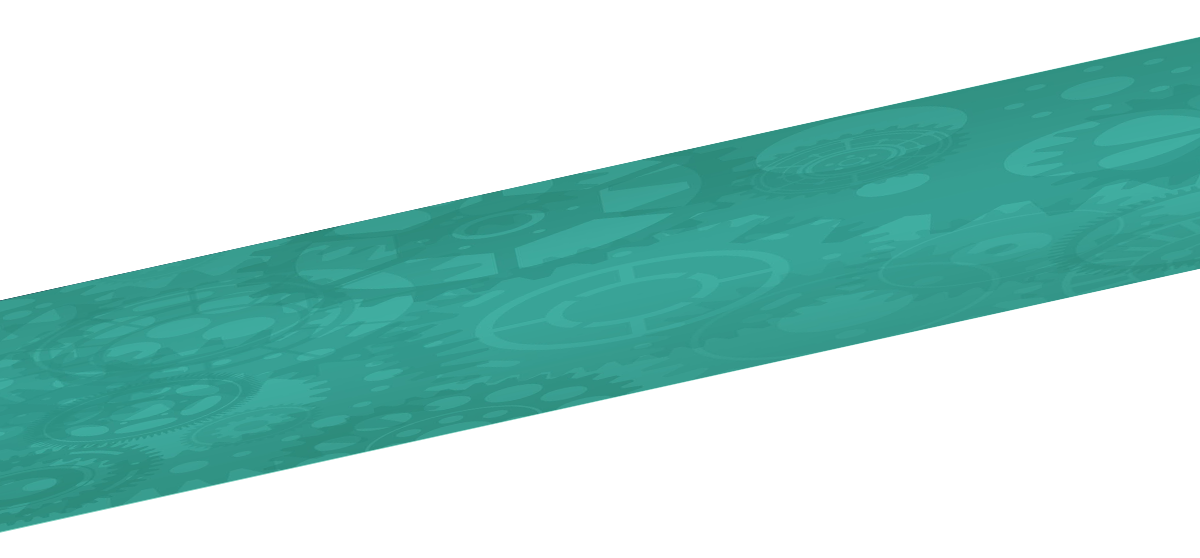
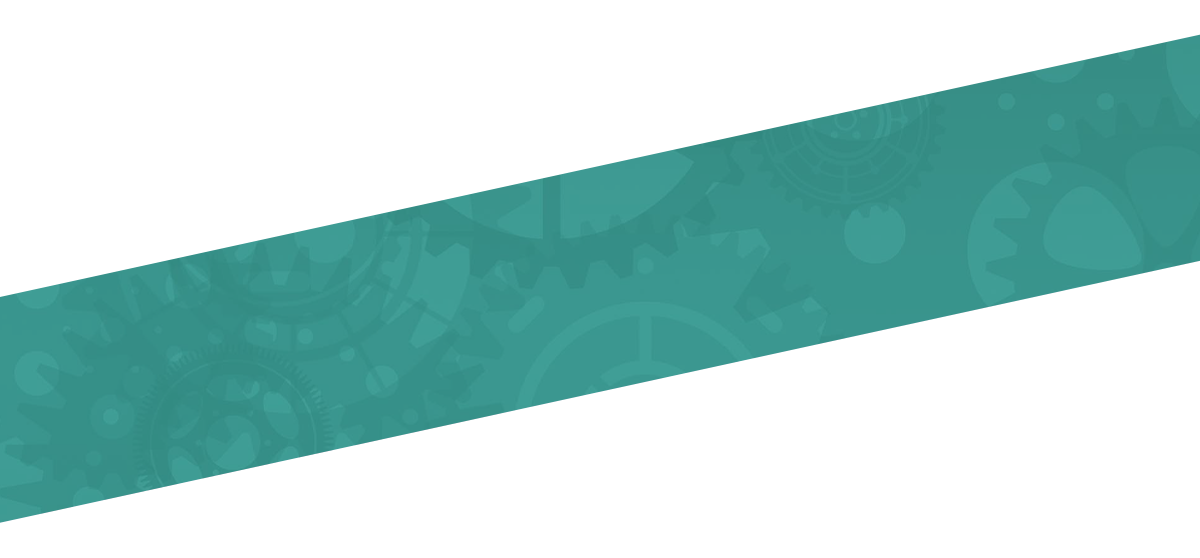
公開後修正

diff --git a/js/script.js b/js/script.js
@@ -1,0 +1,12 @@
+particlesJS("particles-js", {"particles":{"number":{"value":80,"density":{"enable":true,"value_area":800}},"color":{"value":"#ffffff"},"shape":{"type":"circle","stroke":{"width":0,"color":"#000000"},"polygon":{"nb_sides":3},"image":{"src":"img/github.svg","width":100,"height":100}},"opacity":{"value":0.5291259800856225,"random":true,"anim":{"enable":false,"speed":1,"opacity_min":0.1,"sync":false}},"size":{"value":3.945738208161363,"random":true,"anim":{"enable":false,"speed":41,"size_min":0.1,"sync":false}},"line_linked":{"enable":true,"distance":280,"color":"#029779","opacity":0.24852886943415603,"width":6.2533070373755395},"move":{"enable":true,"speed":1,"direction":"none","random":true,"straight":false,"out_mode":"bounce","bounce":false,"attract":{"enable":false,"rotateX":10000,"rotateY":10000}}},"interactivity":{"detect_on":"canvas","events":{"onhover":{"enable":false,"mode":"repulse"},"onclick":{"enable":false,"mode":"push"},"resize":true},"modes":{"grab":{"distance":400,"line_linked":{"opacity":1}},"bubble":{"distance":400,"size":40,"duration":2,"opacity":8,"speed":3},"repulse":{"distance":200,"duration":0.4},"push":{"particles_nb":4},"remove":{"particles_nb":2}}},"retina_detect":true});var count_particles, stats, update; stats = new Stats; stats.setMode(0); stats.domElement.style.position = 'absolute'; stats.domElement.style.left = '0px'; stats.domElement.style.top = '0px'; document.body.appendChild(stats.domElement); count_particles = document.querySelector('.js-count-particles'); update = function() { stats.begin(); stats.end(); if (window.pJSDom[0].pJS.particles && window.pJSDom[0].pJS.particles.array) { count_particles.innerText = window.pJSDom[0].pJS.particles.array.length; } requestAnimationFrame(update); }; requestAnimationFrame(update);;
+
+
+const VueSmoothScroll = window['VueSmoothScroll'].default;
+
+Vue.use(VueSmoothScroll);
+new Vue({
+    el: '.all',
+    data: {
+        message: 'v-smooth-scroll_trsting_message'
+    }
+});

diff --git a/css/object/project/p-top.scss b/css/object/project/p-top.scss
@@ -180,7 +180,7 @@
         background-size: cover;
         padding: 160px 0px;
         width: 100%;
-        background-color: rgba(255, 255, 255, 0.2);
+        background-color: rgba(255, 255, 255, 0.1);
         background-blend-mode: lighten;
         // ↓パララックス
         // width: 100%;

diff --git a/css/style.css b/css/style.css
@@ -992,7 +992,7 @@ b.bold {
   background-size: cover;
   padding: 160px 0px;
   width: 100%;
-  background-color: rgba(255, 255, 255, 0.2);
+  background-color: rgba(255, 255, 255, 0.1);
   background-blend-mode: lighten;
 }
 
